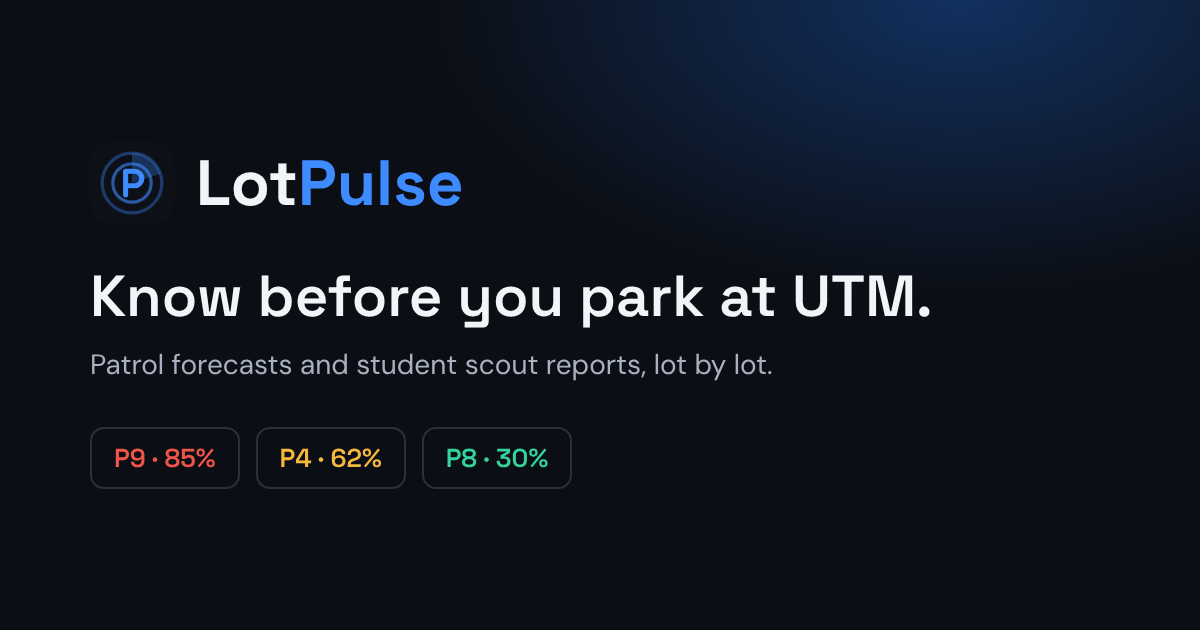
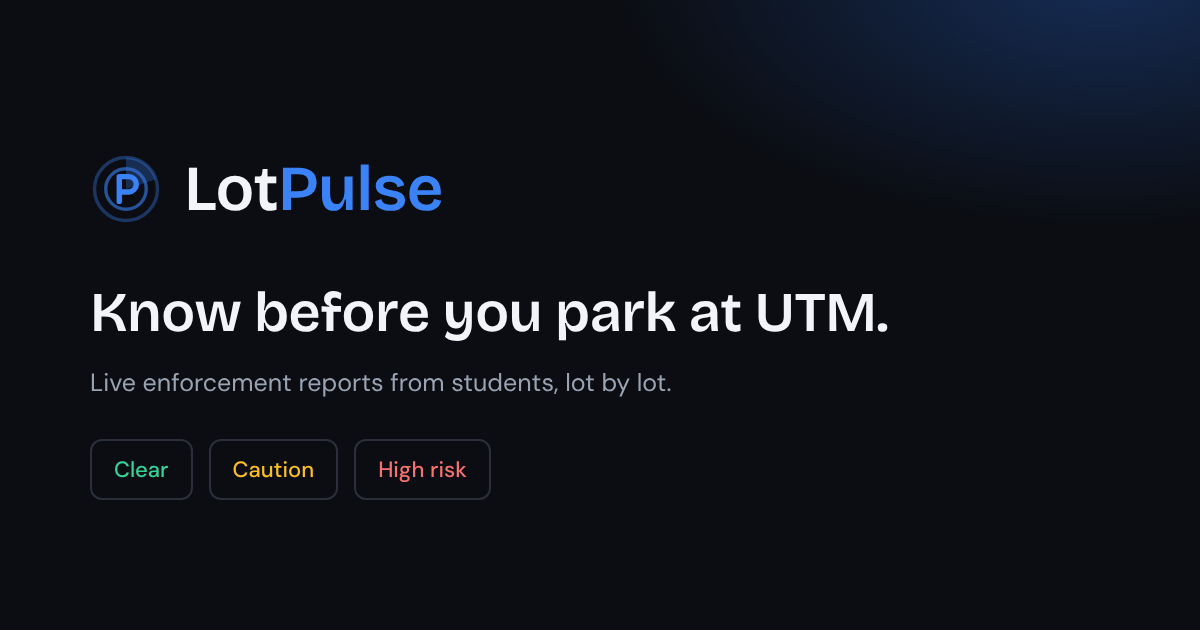
Drop "predictive" and forecast wording from metadata and the link preview
The page description, web app manifest and package description now say
what the app does: live, student-reported enforcement sightings. The
link preview image no longer shows patrol forecasts or made-up percentages.

Claude-Session: https://claude.ai/code/session_01Cuy3EbRVLRJz6XLgzwQzzk

diff --git a/src/routes/__root.tsx b/src/routes/__root.tsx
@@ -13,7 +13,7 @@ import appCss from "../styles.css?url";
 
 const SITE_TITLE = "LotPulse · UTM Parking Radar";
 const SITE_DESCRIPTION =
-  "Predictive parking radar for UTM students. Lot-by-lot patrol forecasts and student scout reports.";
+  "Live parking enforcement reports from UTM students. See where enforcement was last spotted, lot by lot.";
 // Link previews need absolute URLs.
 const SITE_URL = (import.meta.env.VITE_SITE_URL ?? "").replace(/\/$/, "");
 const OG_IMAGE = `${SITE_URL}/og.png`;
